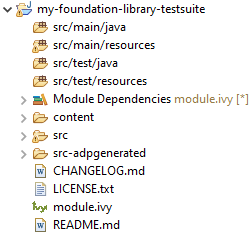
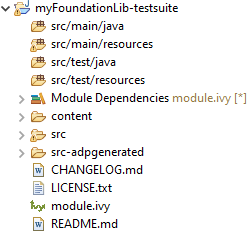
Update VEEPortingGuide/platformQualification.rst to rename JUnit Foundation Library project

Changed region(s): [[0.0, 0.0, 0.98, 0.4506], [0.056, 0.4807, 0.588, 0.9914]]

diff --git a/VEEPortingGuide/platformQualification.rst b/VEEPortingGuide/platformQualification.rst
@@ -136,9 +136,9 @@ To create the Test Suite module, click on: :guilabel:`File` > :guilabel:`New` > 
 
 Fill up the following fields of the form:
 
-- Project name
-- Organization
-- Module
+- Project name (e.g: ``myFoundationLib-testsuite``)
+- Organization (e.g: ``com.mycompany``)
+- Module (e.g: ``myFoundationLib-testsuite``)
 - Revision (version of your Test Suite module)
 - Select the Skeleton: ``microej-javaimpl``
 
@@ -165,7 +165,7 @@ Open the ``module.ivy`` file and follow steps below:
   
   .. code-block:: XML
   
-          <ea:build organisation="com.is2t.easyant.buildtypes" module="build-microej-javaimpl" revision="5.1.+" microej.lib.name="myLib-testsuite-1.0" rip.printableName="myLib-testsuite Impl">
+		<ea:build organisation="com.is2t.easyant.buildtypes" module="build-microej-javaimpl" microej.lib.name="myFoundationLib-testsuite-1.0" rip.printableName="myFoundationLib Test Suite Impl" revision="5.2.+">
   
 - Add the following properties in the ``ivy-module > info`` node:
   
@@ -229,7 +229,7 @@ Test the Test Suite Module Generation
 ~~~~~~~~~~~~~~~~~~~~~~~~~~~~~~~~~~~~~
 
 - Right-click on the project and select ``Build module``
-- Check the content of the generated archive ``target~\test-rips\javaLibs\myLib-testsuite-X.X.jar``
+- Check the content of the generated archive ``target~\test-rips\javaLibs\myFoundationLib-testsuite-X.X.jar``
 - If it worked, you can see ``.class`` files inside the archive
 
 Create the Test Suite Runner Project
@@ -254,7 +254,7 @@ Create the Test Suite Runner Skeleton
   
   .. code-block:: XML
         
-        <dependency org="com.mycompany" name="myLib-testsuite" rev="0.1.0" conf="test->default;provided->provided"/>
+        <dependency org="com.mycompany" name="myFoundationLib-testsuite" rev="0.1.0" conf="test->default;provided->provided"/>
 
 - Add the following target to the ``module.ant`` at the root of the Test Suite project with the following content:
   
